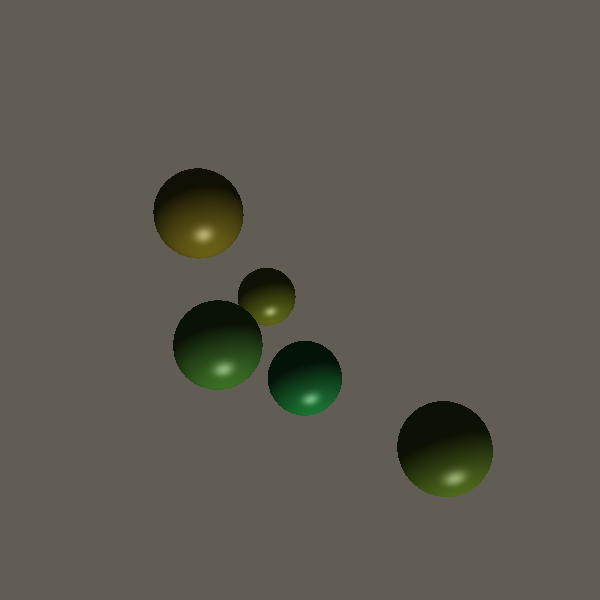
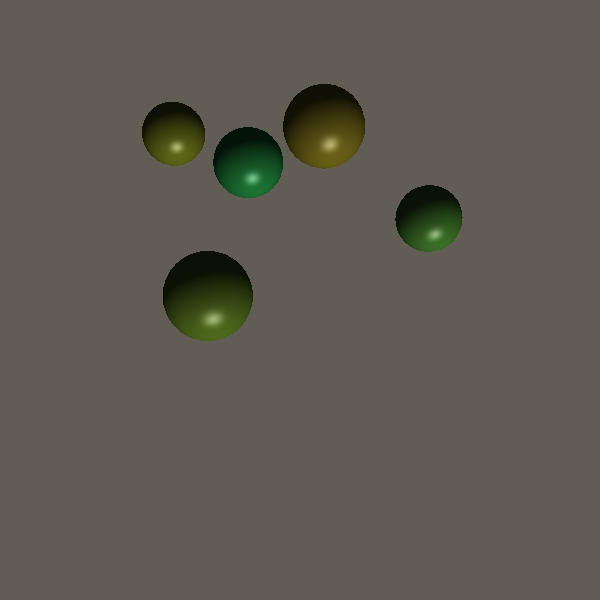
fixed some issues with postprocessing

Changed region(s): [[0.24, 0.12, 0.63, 0.69], [0.66, 0.66, 0.84, 0.84], [0.66, 0.3, 0.78, 0.42]]

diff --git a/src/postprocessManager.cpp b/src/postprocessManager.cpp
@@ -2,6 +2,7 @@
 
 #include <iostream>
 #include <vector>
+#include <unordered_set>
 #include <algorithm>
 
 #include "programManager.h"
@@ -11,7 +12,7 @@
 #include <SDL2/SDL_image.h>
 
 
-void saveTextureToFile(GLuint textureID, int width, int height, const std::string& filename) {
+void saveColorTextureToFile(GLuint textureID, int width, int height, const std::string& filename) {
 	// Create a buffer to hold the texture data
 	unsigned char* buffer = new unsigned char[width * height * 4]; // assuming 4 bytes for RGBA
 
@@ -40,12 +41,58 @@ void saveTextureToFile(GLuint textureID, int width, int height, const std::strin
 	delete[] buffer;
 }
 
+void saveDepthTextureToFile(GLuint textureID, int width, int height, const std::string& filename) {
+	// Create a buffer to hold the texture data
+	float* buffer = new float[width * height]; // assuming 4 bytes for RGBA
 
-void PostprocessManager::createTexture(GLuint& texture, int w, int h, GLenum format, GLenum type) {
+	// Bind the texture and read its data into the buffer
+	glBindTexture(GL_TEXTURE_2D, textureID);
+	glGetTexImage(GL_TEXTURE_2D, 0, GL_DEPTH_COMPONENT, GL_FLOAT, buffer);
+
+	Uint8* intBuffer = new Uint8[width * height * 4];
+
+	std::unordered_set<float> intensities;
+
+	for (int i = 0; i < width * height; i++) {
+		intensities.insert(buffer[i]);
+
+		intBuffer[4 * i + 0] = static_cast<Uint8>(255 * buffer[i]);
+		intBuffer[4 * i + 1] = static_cast<Uint8>(255 * buffer[i]);
+		intBuffer[4 * i + 2] = static_cast<Uint8>(255 * buffer[i]);
+		intBuffer[4 * i + 3] = 255;
+	}
+
+	// Create an SDL_Surface from the buffer
+	SDL_Surface* surface = SDL_CreateRGBSurfaceFrom(
+		intBuffer,
+		width,
+		height,
+		32, // 32 bits depth
+		width * 4, // pitch
+		0x000000FF, // R mask
+		0x0000FF00, // G mask
+		0x00FF0000, // B mask
+		0xFF000000  // A mask
+	);
+	if (!surface) {
+		std::cerr << SDL_GetError() << std::endl;
+		throw std::runtime_error("You Idiot.");
+	}
+
+	// Save the surface to a PNG file using SDL2_image
+	IMG_SavePNG(surface, filename.c_str());
+
+	// Cleanup
+	SDL_FreeSurface(surface);
+	delete[] buffer;
+}
+
+
+void PostprocessManager::createTexture(GLuint& texture, int w, int h, GLint internalFormat, GLenum format, GLenum type) {
 	glGenTextures(1, &texture);
 	glBindTexture(GL_TEXTURE_2D, texture);
 
-	glTexImage2D(GL_TEXTURE_2D, 0, format, w, h, 0, format, type, NULL);
+	glTexImage2D(GL_TEXTURE_2D, 0, internalFormat, w, h, 0, format, type, NULL);
 	glTexParameteri(GL_TEXTURE_2D, GL_TEXTURE_MIN_FILTER, GL_LINEAR);
 	glTexParameteri(GL_TEXTURE_2D, GL_TEXTURE_MAG_FILTER, GL_LINEAR);
 
@@ -59,12 +106,16 @@ void PostprocessManager::initFramebuffer(int width, int height) {
 
 	glViewport(0, 0, width, height);
 	
-	// Create textures
-	createTexture(colorTexture, width, height, GL_RGB, GL_UNSIGNED_BYTE);
+	// Color texture setup
+	createTexture(colorTexture, width, height, GL_RGB, GL_RGB, GL_UNSIGNED_BYTE);
 	glFramebufferTexture2D(GL_FRAMEBUFFER, GL_COLOR_ATTACHMENT0, GL_TEXTURE_2D, colorTexture, 0);
-	createTexture(normalTexture, width, height, GL_RGB, GL_UNSIGNED_BYTE);
+	
+	// Normal texture setup
+	createTexture(normalTexture, width, height, GL_RGB, GL_RGB, GL_UNSIGNED_BYTE);
 	glFramebufferTexture2D(GL_FRAMEBUFFER, GL_COLOR_ATTACHMENT1, GL_TEXTURE_2D, normalTexture, 0);
-	createTexture(depthTexture, width, height, GL_DEPTH_COMPONENT, GL_FLOAT);
+
+	// Depth texture setup
+	createTexture(depthTexture, width, height, GL_DEPTH_COMPONENT24, GL_DEPTH_COMPONENT, GL_FLOAT);
 	glFramebufferTexture2D(GL_FRAMEBUFFER, GL_DEPTH_ATTACHMENT, GL_TEXTURE_2D, depthTexture, 0);
 
 	GLenum drawBuffers[] = { GL_COLOR_ATTACHMENT0, GL_COLOR_ATTACHMENT1 };
@@ -126,6 +177,7 @@ void PostprocessManager::initProgram(int width, int height, const std::string& v
 	normalTextureLoc = glGetUniformLocation(shaderProgram, "normalTexture");
 	depthTextureLoc = glGetUniformLocation(shaderProgram, "depthTexture");
 	resolutionLoc = glGetUniformLocation(shaderProgram, "resolution");
+	bgColorLoc = glGetUniformLocation(shaderProgram, "bgColor");
 
 	glUseProgram(shaderProgram);
 	glUniform2f(resolutionLoc, static_cast<float>(width), static_cast<float>(height));
@@ -171,7 +223,7 @@ void PostprocessManager::Resize(int width, int height) {
 	glBindFramebuffer(GL_FRAMEBUFFER, 0);
 }
 
-void PostprocessManager::BeforeRender(myColor::RGB bgColor) {
+void PostprocessManager::BeforeRender(const myColor::RGB& bgColor) {
 	GLenum err;
 	while ((err = glGetError()) != GL_NO_ERROR);
 
@@ -182,7 +234,6 @@ void PostprocessManager::BeforeRender(myColor::RGB bgColor) {
 
 	glEnable(GL_DEPTH_TEST);
 
-	glClearDepth(1.0f);
 	glClear(GL_DEPTH_BUFFER_BIT);
 
 	glDrawBuffer(GL_COLOR_ATTACHMENT0);
@@ -195,21 +246,19 @@ void PostprocessManager::BeforeRender(myColor::RGB bgColor) {
 
 	GLenum drawBuffers[] = { GL_COLOR_ATTACHMENT0, GL_COLOR_ATTACHMENT1 };
 	glDrawBuffers(2, drawBuffers);
+
+	while ((err = glGetError()) != GL_NO_ERROR) {
+		std::cerr << "OpenGL error (during setting framebuffer textures): " << err << std::endl;
+	}
 }
 
-void PostprocessManager::AfterRender() {
-	static bool renderedToFile = false;
-	if (!renderedToFile) {
-		saveTextureToFile(colorTexture, 600, 600, "color.png");
-		saveTextureToFile(normalTexture, 600, 600, "normal.png");
-
-		renderedToFile = true;
-	}
-
+void PostprocessManager::AfterRender(const myColor::RGB& bgColor) {
 	GLenum err;
 	while ((err = glGetError()) != GL_NO_ERROR);
 
 	glBindFramebuffer(GL_FRAMEBUFFER, 0);
+
+	// Render using postprocessing
 
 	glDisable(GL_DEPTH_TEST);
 
@@ -220,10 +269,8 @@ void PostprocessManager::AfterRender() {
 	while ((err = glGetError()) != GL_NO_ERROR) {
 		std::cerr << "OpenGL error (during binding postprocess shader): " << err << std::endl;
 	}
-	glBindVertexArray(vao);
-	while ((err = glGetError()) != GL_NO_ERROR) {
-		std::cerr << "OpenGL error (during binding postprocess VAO): " << err << std::endl;
-	}
+
+	glUniform3f(bgColorLoc, bgColor.r, bgColor.g, bgColor.b);
 
 	glActiveTexture(GL_TEXTURE0);
 	glBindTexture(GL_TEXTURE_2D, colorTexture);
@@ -235,6 +282,11 @@ void PostprocessManager::AfterRender() {
 	glBindTexture(GL_TEXTURE_2D, depthTexture);
 	while ((err = glGetError()) != GL_NO_ERROR) {
 		std::cerr << "OpenGL error (during binding postprocess textures): " << err << std::endl;
+	}
+
+	glBindVertexArray(vao);
+	while ((err = glGetError()) != GL_NO_ERROR) {
+		std::cerr << "OpenGL error (during binding postprocess VAO): " << err << std::endl;
 	}
 
 	glDrawElements(GL_TRIANGLES, 6, GL_UNSIGNED_SHORT, 0);

diff --git a/src/app.cpp b/src/app.cpp
@@ -27,7 +27,7 @@ App::App(int width, int height) : window(nullptr, &SDL_DestroyWindow) {
 	prgMngr = std::make_shared<ProgramManager>();
 	modelMngr = std::make_shared<ModelManager>();
 	registry = std::make_shared<entt::registry>();
-	camera = std::make_unique<Camera>(glm::vec3(0.0f, 1.8f, 20.0f), 0.0f, 0.0f, 45.0f, width, height, 0.1f, 300.0f, 10.0f);
+	camera = std::make_unique<Camera>(glm::vec3(0.0f, 1.8f, 20.0f), 0.0f, 0.0f, 45.0f, width, height, 1.0f, 300.0f, 10.0f);
 	postprocess = std::make_unique<PostprocessManager>(width, height, "./shaders/postprocess-vertex.glsl", "./shaders/postprocess-fragment.glsl");
 }
 
@@ -227,7 +227,7 @@ void App::render() {
 
 	postprocess->BeforeRender(bgColor);
 	systems::render(registry, camera, prgMngr);
-	postprocess->AfterRender();
+	postprocess->AfterRender(bgColor);
 
 	SDL_GL_SwapWindow(window.get());
 }

diff --git a/src/postprocessManager.h b/src/postprocessManager.h
@@ -22,8 +22,9 @@ private:
 	GLint normalTextureLoc;
 	GLint depthTextureLoc;
 	GLint resolutionLoc;
+	GLint bgColorLoc;
 
-	static void createTexture(GLuint& texture, int w, int h, GLenum format, GLenum type);
+	static void createTexture(GLuint& texture, int w, int h, GLint internalFormat, GLenum format, GLenum type);
 
 	void initFramebuffer(int width, int height);
 	void initVAO();
@@ -35,6 +36,6 @@ public:
 	
 	void Resize(int width, int height);
 
-	void BeforeRender(myColor::RGB bgColor);
-	void AfterRender();
+	void BeforeRender(const myColor::RGB& bgColor);
+	void AfterRender(const myColor::RGB& bgColor);
 };

diff --git a/src/app.h b/src/app.h
@@ -32,6 +32,7 @@ private:
 
 	std::unique_ptr<PostprocessManager> postprocess;
 
+	float normalThreshold = 0.01f;
 
 	//std::unique_ptr<Terrain> terrain;
 
